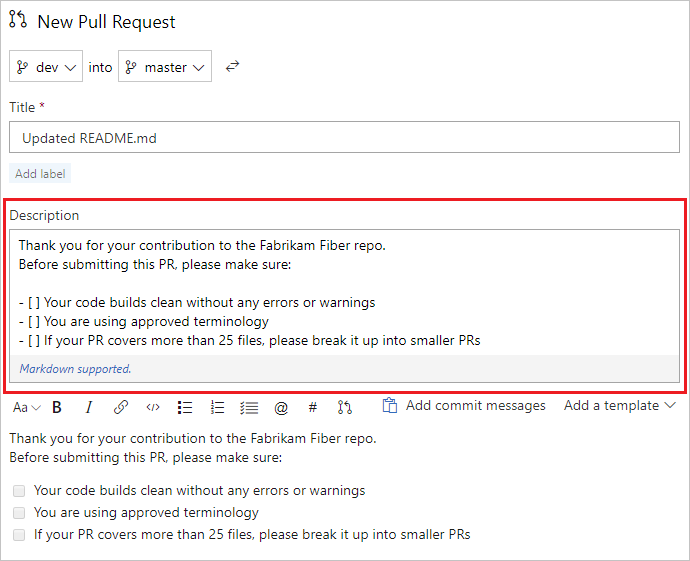
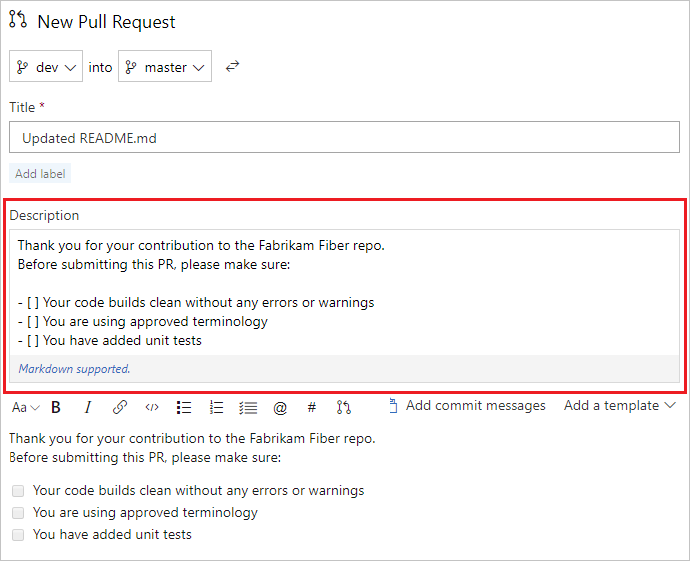
Updated default template

diff --git a/docs/repos/git/pull-request-templates.md b/docs/repos/git/pull-request-templates.md
@@ -16,7 +16,7 @@ monikerRange: 'vsts'
 
 #### VSTS 
 
-A good pull request description can provide guidance to pull request creators, and help reviewers be more effective when reviewing pull requests. Pull request templates can help your pull request creators to create good pull request descriptions that meet your organization's standards.
+A good pull request description can provide guidance to pull request creators, and help reviewers be more effective when reviewing pull requests. Pull request templates can help your developers to create good pull request descriptions that meet your organization's standards.
 
 This article shows you how to get started with pull request templates.
 
@@ -39,7 +39,7 @@ Before submitting this PR, please make sure:
 
 - [ ] Your code builds clean without any errors or warnings
 - [ ] You are using approved terminology
-- [ ] If your PR covers more than 25 files, please break it up into smaller PRs
+- [ ] You have added unit tests
 ```
 
 ## Default pull request templates
